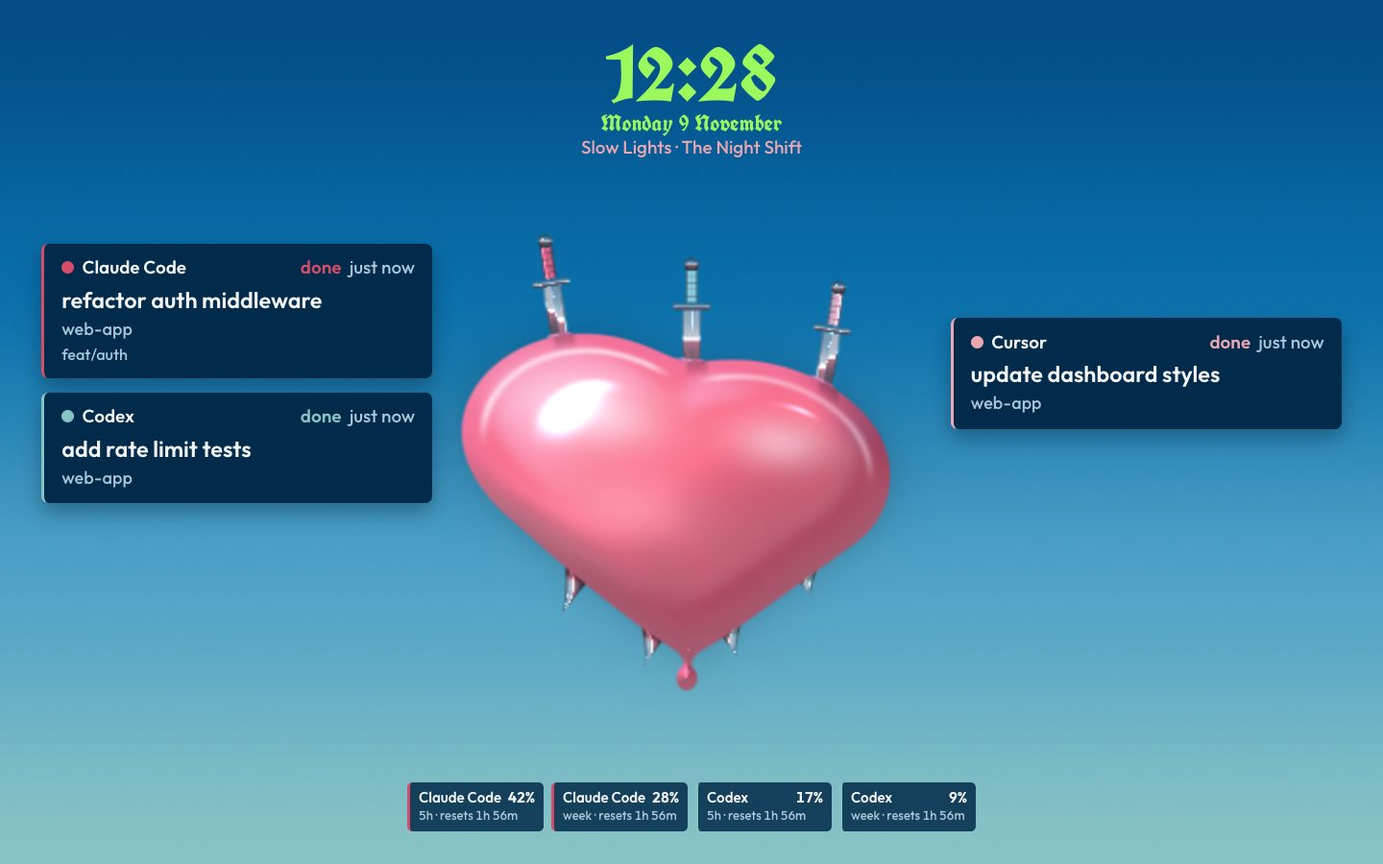
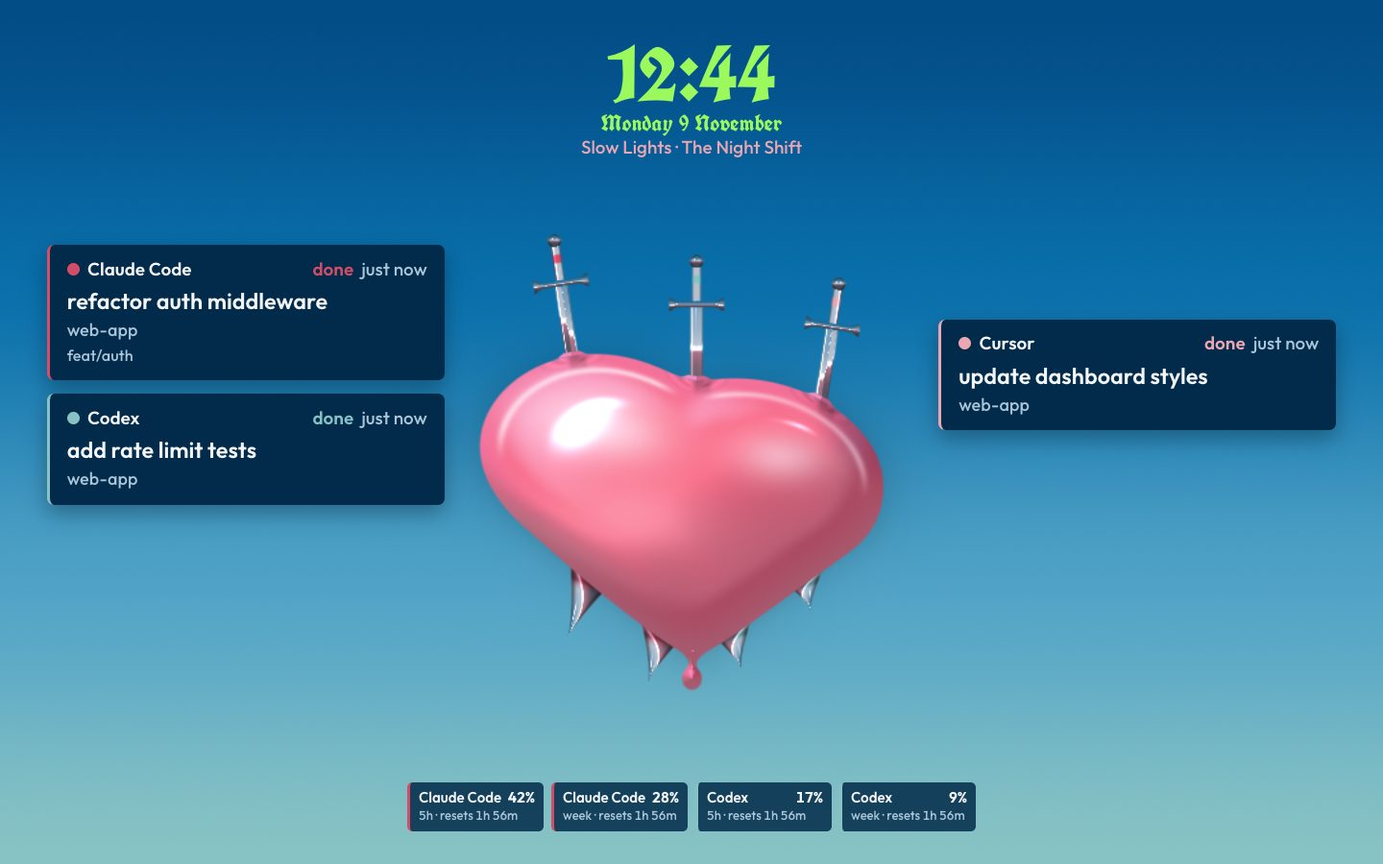
feat(favourite): bigger, crisp daggers and spikes like the cover

diff --git a/themes/favourite/stavgayer.favourite-ground/index.js b/themes/favourite/stavgayer.favourite-ground/index.js
@@ -1,12 +1,12 @@
 // The Favourite sky: a wide, hot pink heart, low and centred in a blue sky,
 // after the cover of the single. Everything is drawn in code by one WebGL 1
-// fragment shader on a canvas at half the screen's pixels.
+// fragment shader on a canvas at three quarters of the screen's size (option scale).
 //   rest, work, done: the resting sky and the heart, airbrushed with soft light;
 //   call: an agent waits: lime floods the heart's highlights and the sky goes
 //   to its deepest blue;
 //   second display: the sky and the heart.
-// Each task is a polished steel dagger stuck in the heart's top edge, its
-// wrapped grip in the agent's colour. It stabs in, sinks slowly over the first
+// Each task is a polished steel dagger stuck in the heart's top edge, shaped
+// like the cover's, with a thin band in the agent's colour on its grip. It stabs in, sinks slowly over the first
 // hour, glints once when the task is finished, turns lime while its agent waits
 // (the others dim), and slides out and falls when the task leaves. Where the
 // blade goes in, the liquid climbs it a little, ripples and takes its shadow.
@@ -41,7 +41,7 @@
     margin: 4, // above the clock
     clock: 14, // the time and the date
     gap: 2, // between blocks
-    rise: 0.24, // of the heart's size: the daggers stand above its top edge (always kept, so the heart never jumps)
+    rise: 0.32, // of the heart's size: the daggers stand above its top edge (always kept, so the heart never jumps)
     spikes: 0.12, // of the heart's size: the spikes hang under it (only with limits)
     labelRow: 6.5, // one row of limit labels
     labelWidth: 150, // CSS px per limit label
@@ -205,16 +205,18 @@
   var LOOK_MS = 250, SKY_MS = 1200, FADE_MS = 400;
 
   // The daggers: one per task, in card order, at most 7, stuck in the heart's top
-  // edge. Sizes in heart space (below). Three more slots let daggers fall out
-  // while new ones stab in.
+  // edge, shaped like the cover's. Sizes in heart space (below), for a dagger at
+  // full size; seven daggers are drawn a little smaller so their crossguards
+  // clear each other. Three more slots let daggers fall out while new ones stab in.
   var DAGGERS = 7, DAGGER_SLOTS = DAGGERS + 3;
   var DAGGER = {
     spread: 0.3, // the cover's left and right spots; the centre is 0
     lean: 0.5, // radians per unit from the centre: the outer daggers lean out a little
-    blade: 0.15, // the blade's length; over the first hour it sinks until a third of it is in
-    stuck: 0.03, // how deep a new dagger sits
-    lift: 0.06, // how high a new dagger stabs from
-    middle: 0.13, // from the tip to the balance point it tumbles around
+    blade: 0.22, // the blade's length; over the first hour it sinks until a third of it is in
+    guard: 0.066, // half the crossguard's length
+    stuck: 0.04, // how deep a new dagger sits
+    lift: 0.08, // how high a new dagger stabs from
+    middle: 0.19, // from the tip to the balance point it tumbles around
   };
   var LIME = "#9bf95e";
   var SINK_MS = 60 * 60000, STAB_MS = 400, GLINT_MS = 600, FALL_MS = 800;
@@ -227,11 +229,11 @@
   // full length, so their lengths compare, and an unused limit still shows 15% of it.
   var SPIKE_SLOTS = FRAME.maxSpikes;
   var SPIKE = {
-    full: 0.18, // the length out of the heart at 100% (the centre one reaches the label gap)
+    full: 0.27, // the length out of the heart at 100% (the centre one reaches the label gap)
     least: 0.15, // the share of it shown at 0%
-    width: 0.04, // half the width at the root, narrower when many spikes crowd
-    inset: 0.03, // how far the root reaches up into the heart, hidden behind it
-    tint: 0.02, // how far the agent's colour reaches down from where the thorn comes out
+    width: 0.06, // half the width at the root, narrower when many spikes crowd
+    inset: 0.035, // how far the root reaches up into the heart, hidden behind it
+    tint: 0.025, // how far the agent's colour reaches down from where the thorn comes out
     splay: 0.45, // the share of the surface's slope a thorn follows at rest
     sway: 1.8, // how much more it follows the slope's changes as the liquid moves
   };
@@ -377,9 +379,10 @@
     "uniform float uLime;    // 0 to 1: the lime light that floods the heart's reflections while an agent waits",
     "uniform float uWobble;  // the wobble's clock, seconds (stands still with Reduce motion)",
     "uniform float uWobbleAmount; // the share of the outline's wobble: 1, less while an agent waits",
-    "uniform vec4 uDagPose[" + DAGGER_SLOTS + "];   // the tip, and the way the blade points up",
+    "uniform vec4 uDagPose[" + DAGGER_SLOTS + "];   // the tip, and the way the blade points up, as long as the dagger's size",
     "uniform vec4 uDagLook[" + DAGGER_SLOTS + "];   // opacity (0: no dagger), glint (below 0: none), lime, dim",
     "uniform vec4 uDagHandle[" + DAGGER_SLOTS + "]; // the handle's agent colour, and 1 while it is stuck in the heart",
+    "uniform float uGuard;   // the share of the crossguards' length: 1, less while many daggers crowd",
     "uniform float uMotion;  // 1, or 0 with Reduce motion: no ripple",
     "uniform vec4 uSpike[" + SPIKE_SLOTS + "];     // the root's x and y, the length (0: no spike), half the width",
     "uniform vec2 uSpikeDir[" + SPIKE_SLOTS + "];  // the way the thorn points, from its root",
@@ -533,63 +536,65 @@
     "}",
     // A normal given across (x) and along (y) a part that points the way `up`, turned to the screen.
     "vec3 turned(vec2 n, float z, vec2 up) { return normalize(vec3(n.x * vec2(up.y, -up.x) + n.y * up, z)); }",
-    // A steel dagger standing on its tip, in its own space: x across, y up the
-    // blade from the tip. A bevelled blade (two faces that meet in a ridge, and a
-    // steeper edge bevel), a round-ended crossguard and a round pommel, all
-    // polished steel, and a grip of wrapped wire in the agent's colour. The lower
-    // blade, near the heart, mirrors its pink; the upper blade and the hilt the sky.
-    "const float BLADE = " + DAGGER.blade.toFixed(4) + ";",
-    "const float BLADE_W = 0.02;               // half the blade's width at the guard",
-    "const vec2 GUARD = vec2(0.042, 0.008);    // half the crossguard: 7 daggers just clear each other",
-    "const float GRIP = 0.075, GRIP_W = 0.013, POMMEL = 0.016;",
-    "const float GRIP_Y = BLADE + 2.0 * GUARD.y; // where the grip starts",
-    "const float REACH = GRIP_Y + GRIP + 2.0 * POMMEL; // tip to the top of the pommel",
-    "float box(vec2 p, vec2 c, vec2 h, float r) { vec2 q = abs(p - c) - h + r; return length(max(q, 0.0)) + min(max(q.x, q.y), 0.0) - r; }",
+    // A steel dagger standing on its tip, in its own space at full size: x
+    // across, y up the blade from the tip. After the cover: a slim bevelled blade
+    // (two faces that meet in a ridge, a steeper bevel at each edge and a sharp
+    // bright line along the lit edge), a long, thin crossguard whose ends flare,
+    // a plain round grip with one thin band in the agent's colour, and a round
+    // pommel, all polished steel. The lower blade, near the heart, mirrors its
+    // pink; the upper blade and the hilt the sky.
+    "const float BLADE = " + DAGGER.blade.toFixed(4) + ", BLADE_W = 0.015; // half the blade's width",
+    "const float GUARD_L = " + DAGGER.guard.toFixed(4) + ", GUARD_H = 0.007; // half the crossguard's length and thickness at its middle",
+    "const float GRIP_Y = BLADE + 2.0 * GUARD_H, GRIP = 0.085, GRIP_W = 0.0105, POMMEL = 0.016;",
+    "const float REACH = GRIP_Y + GRIP + 1.7 * POMMEL; // tip to the top of the pommel",
     "vec3 dagger(vec2 u, vec2 up, vec3 c, vec4 look, vec4 handle, float d, float px) {",
-    "  float t = clamp(u.y / (BLADE * 0.45), 0.0, 1.0);",
+    "  float t = clamp(u.y / (BLADE * 0.3), 0.0, 1.0);",
     "  float w = BLADE_W * t * (2.0 - t); // a sharp point that swells into a straight blade",
     "  float blade = max(abs(u.x) - w, max(-u.y, u.y - BLADE));",
-    "  float guard = box(u, vec2(0.0, BLADE + GUARD.y), GUARD, GUARD.y);",
-    "  float grip = box(u, vec2(0.0, GRIP_Y + 0.5 * GRIP), vec2(GRIP_W, 0.5 * GRIP), 0.004);",
+    "  vec2 gq = u - vec2(0.0, BLADE + GUARD_H);",
+    "  float gl = GUARD_L * uGuard;",
+    "  float flare = smoothstep(0.55, 1.0, abs(gq.x) / gl);",
+    "  float gh = GUARD_H * (1.0 + 1.2 * flare * flare);",
+    "  float guard = max(abs(gq.x) - gl, abs(gq.y) - gh);",
+    "  float grip = max(abs(u.x) - GRIP_W, abs(u.y - GRIP_Y - 0.5 * GRIP) - 0.5 * GRIP);",
     "  vec2 knob = (u - vec2(0.0, GRIP_Y + GRIP + 0.7 * POMMEL)) / POMMEL;",
     "  float pommel = (length(knob) - 1.0) * POMMEL;",
-    "  float metal = min(blade, min(guard, pommel));",
-    "  float whole = min(metal, grip);",
+    "  float whole = min(min(blade, guard), min(grip, pommel));",
     // Each part's normal, then one mirror for all of them.
     "  float a = u.x / max(w, 1e-4);",
     "  float face = sign(a) * mix(0.45 * smoothstep(0.0, 0.14, abs(a)), 0.9, smoothstep(0.74, 0.9, abs(a)));",
-    "  vec3 n = turned(vec2(face, mix(-0.28, 0.28, u.y / BLADE) + 0.04 * sin(u.y * 70.0)), 0.8, up);",
-    "  vec2 g = (u - vec2(0.0, BLADE + GUARD.y)) / GUARD;",
+    "  vec3 n = turned(vec2(face, mix(-0.28, 0.28, u.y / BLADE) + 0.04 * sin(u.y * 50.0)), 0.8, up);",
     "  float onGuard = smoothstep(-px, px, blade - guard);",
-    "  n = mix(n, turned(vec2(sign(g.x) * 0.8 * smoothstep(0.7, 1.0, abs(g.x)), 0.6 * g.y + 0.15), 0.8, up), onGuard);",
+    "  n = mix(n, turned(vec2(sign(gq.x) * 0.75 * flare, 0.7 * gq.y / gh + 0.15), 0.8, up), onGuard);",
+    "  float onGrip = smoothstep(-px, px, min(blade, guard) - grip);",
+    "  vec2 rod = vec2(0.92 * clamp(u.x / GRIP_W, -1.0, 1.0), 0.1);",
+    "  n = mix(n, turned(rod, sqrt(max(0.05, 1.0 - dot(rod, rod))), up), onGrip);",
     "  vec2 k = knob * 0.95;",
-    "  float onPommel = smoothstep(-px, px, min(blade, guard) - pommel);",
-    "  n = mix(n, turned(k, sqrt(max(0.05, 1.0 - dot(k, k))), up), onPommel);",
-    "  float turn = fract((u.y - GRIP_Y) / 0.015); // the grip's rings",
-    "  vec2 wire = vec2(0.92 * clamp(u.x / GRIP_W, -1.0, 1.0), 0.12);",
-    "  float onGrip = 1.0 - smoothstep(-px, px, grip - metal);",
-    "  n = normalize(mix(n, turned(wire, sqrt(max(0.05, 1.0 - dot(wire, wire))), up), onGrip));",
+    "  float onPommel = smoothstep(-px, px, min(min(blade, guard), grip) - pommel);",
+    "  n = normalize(mix(n, turned(k, sqrt(max(0.05, 1.0 - dot(k, k))), up), onPommel));",
     "  vec3 part = chrome(n);",
+    "  float onBlade = 1.0 - max(max(onGuard, onGrip), onPommel);",
+    "  part += onBlade * 0.75 * exp(-pow((a + 0.8) / 0.09, 2.0)) * smoothstep(0.0, 0.3, t); // the bright edge",
     "  if (look.y >= 0.0) { // the glint runs down the blade once",
-    "    part += (1.0 - max(onGuard, max(onPommel, onGrip))) * exp(-pow((u.y - mix(BLADE, 0.0, look.y)) / 0.018, 2.0)) * sin(3.14159265 * look.y);",
+    "    part += onBlade * exp(-pow((u.y - mix(BLADE, 0.0, look.y)) / 0.025, 2.0)) * sin(3.14159265 * look.y);",
     "  }",
-    "  vec3 tint = mix(handle.rgb, LIME, look.z);",
-    "  vec3 wrapped = part * (1.2 * tint + 0.15) * (0.72 + 0.28 * smoothstep(0.0, 0.2, min(turn, 1.0 - turn))) + 0.2 * LIME * look.z;",
-    "  part = mix(part, wrapped, onGrip);",
+    "  float band = onGrip * (1.0 - smoothstep(0.01 - px, 0.01 + px, abs(u.y - GRIP_Y - 0.62 * GRIP)));",
+    "  vec3 tint = mix(handle.rgb, LIME, look.z); // coloured metal: the agent's colour, lit like the steel around it",
+    "  part = mix(part, tint * (0.4 + 0.8 * dot(part, vec3(0.3333))) + 0.15 * LIME * look.z, band);",
     "  float shown = (1.0 - smoothstep(-px, px, whole)) * look.x * mix(1.0, 0.4, look.w);",
     "  if (handle.w > 0.5) {",
     // Stuck in the heart: hidden inside it. The liquid climbs the blade a little
     // and ripples out from it, and the blade's soft shadow falls on the skin below
     // and to the right of it, away from the light.
     "    float side = max(abs(u.x) - w, 0.0);",
-    "    float ring = length(vec2(u.x, 2.6 * d));",
-    "    float wave = uMotion * sin(ring * 260.0 - uWobble * 6.0) * exp(-ring / 0.028) * smoothstep(0.0, 0.008, side);",
-    "    float lip = 0.008 * exp(-pow(side / 0.012, 2.0)) * (1.0 + 0.3 * wave);",
+    "    float ring = length(vec2(u.x, 2.4 * d));",
+    "    float wave = uMotion * sin(ring * 170.0 - uWobble * 5.0) * exp(-ring / 0.04) * smoothstep(0.0, 0.01, side);",
+    "    float lip = 0.012 * exp(-pow(side / 0.016, 2.0)) * (1.0 + 0.35 * wave);",
     "    float wet = 1.0 - smoothstep(-px, px, d - lip);",
     "    float onSkin = 1.0 - smoothstep(-px, px, d);",
-    "    vec2 caster = u - vec2(dot(vec2(0.012, -0.01), vec2(up.y, -up.x)), dot(vec2(0.012, -0.01), up));",
-    "    float shade = (1.0 - smoothstep(-0.004, 0.012, max(abs(caster.x) - BLADE_W, -caster.y))) * smoothstep(-0.045, -0.004, d);",
-    "    c *= 1.0 - look.x * onSkin * (0.2 * shade - 0.12 * wave * smoothstep(-0.04, 0.0, d));",
+    "    vec2 caster = u - vec2(dot(vec2(0.014, -0.012), vec2(up.y, -up.x)), dot(vec2(0.014, -0.012), up));",
+    "    float shade = (1.0 - smoothstep(-0.004, 0.014, max(abs(caster.x) - BLADE_W, -caster.y))) * smoothstep(-0.05, -0.004, d);",
+    "    c *= 1.0 - look.x * onSkin * (0.25 * shade - 0.24 * wave * smoothstep(-0.05, 0.0, d));",
     "    vec3 rise = turned(vec2(sign(u.x) * 0.55, 0.5), 0.65, up);",
     "    c = mix(c, surface(rise, 1.0) + gloss(rise), look.x * max(wet - onSkin, 0.0));",
     "    shown *= 1.0 - wet;",
@@ -632,17 +637,18 @@
     "    vec4 look = uDagLook[i];",
     "    if (look.x <= 0.0) continue;",
     "    vec4 pose = uDagPose[i];",
-    "    vec2 v = p - pose.xy;",
-    "    vec2 u = vec2(dot(v, vec2(pose.w, -pose.z)), dot(v, pose.zw));",
-    "    if (abs(u.x) > GUARD.x + 0.01 || u.y < -0.03 || u.y > REACH + 0.01) continue;",
-    "    col = dagger(u, pose.zw, col, look, uDagHandle[i], d, px);",
+    "    float k = length(pose.zw); // the dagger's size",
+    "    vec2 up = pose.zw / k, v = p - pose.xy;",
+    "    vec2 u = vec2(dot(v, vec2(up.y, -up.x)), dot(v, up)) / k;",
+    "    if (abs(u.x) > GUARD_L + 0.012 || u.y < -0.04 || u.y > REACH + 0.01) continue;",
+    "    col = dagger(u, up, col, look, uDagHandle[i], d / k, px / k);",
     "  }",
     "  col += (hash(frag) - 0.5) / 255.0; // no banding in the long gradients",
     "  gl_FragColor = vec4(col, 1.0);",
     "}",
   ]).join("\n");
 
-  var UNIFORMS = ["uRes", "uHeart", "uSkyTop", "uLime", "uWobble", "uWobbleAmount", "uDagPose", "uDagLook", "uDagHandle", "uMotion", "uSpike", "uSpikeDir", "uSpikeTint", "uDrip", "uDripAt"];
+  var UNIFORMS = ["uRes", "uHeart", "uSkyTop", "uLime", "uWobble", "uWobbleAmount", "uDagPose", "uDagLook", "uDagHandle", "uGuard", "uMotion", "uSpike", "uSpikeDir", "uSpikeTint", "uDrip", "uDripAt"];
 
   function compile(gl, type, source) {
     var shader = gl.createShader(type);
@@ -660,12 +666,13 @@
 
   window.agentScreensaver.register(function () {
     var box, style, canvas, gl, uniforms = {}, cancelFrame, ctx, lastState;
-    var fps = 12, scale = 0.5, driftMs = 4 * 60000, dirty = true, startMs = 0;
+    var fps = 12, scale = 0.75, driftMs = 4 * 60000, dirty = true, startMs = 0;
     var frame, display = "main";
     var skyTop = tween(0); // 0 resting, 1 while an agent waits: the deep sky and the lime light
     var REST_TOP = rgbOf(SKY[0]), CALL_TOP = rgbOf(DEEP_SKY);
     // The daggers in drawing order: the tasks' daggers in card order, then the ones falling out.
     var daggers = [], firstState = true;
+    var dagSize = tween(1), dagGuard = tween(1); // the daggers' size and their crossguards' length: 1, less while many crowd the edge
     var dagPose = new Float32Array(DAGGER_SLOTS * 4);
     var dagLook = new Float32Array(DAGGER_SLOTS * 4);
     var dagHandle = new Float32Array(DAGGER_SLOTS * 4);
@@ -701,6 +708,12 @@
       var leaving = Object.keys(byKey).some(function (key) { return stay.indexOf(key) < 0; });
       // The rest move up only once a leaving dagger is out of the heart, so they never cross it.
       var moveAt = leaving && !still ? nowMs + PULL * FALL_MS : nowMs;
+      // Six or seven daggers are drawn a little smaller, with shorter crossguards
+      // that keep a gap between neighbours.
+      var gap = cards.length < 2 ? Infinity : (2 * DAGGER.spread) / (cards.length - 1);
+      var size = Math.min(1, 0.55 + 3 * gap);
+      dagSize.set(size, moveAt, slideMs);
+      dagGuard.set(Math.min(1, (gap - 0.02) / (2 * DAGGER.guard * size)), moveAt, slideMs);
       var kept = cards.map(function (card, index) {
         var key = stay[index], x = slotX(index, cards.length);
         var dagger = byKey[key] || newDagger(card, key, x, moveAt);
@@ -723,11 +736,11 @@
 
     // One dagger this moment: its tip and direction, how it looks, and whether it is stuck.
     function placeDagger(dagger, nowMs, slot, t, amount) {
-      var still = reduce.matches, x = dagger.x.at(nowMs), lean = x * DAGGER.lean;
+      var still = reduce.matches, x = dagger.x.at(nowMs), lean = x * DAGGER.lean, k = dagSize.at(nowMs);
       var depth = depthOf((dagger.endMs === null ? nowMs : dagger.endMs) - dagger.startedMs);
-      var under = DAGGER.stuck + depth * (DAGGER.blade / 3 - DAGGER.stuck); // the blade inside the heart: a third at full depth
+      var under = k * (DAGGER.stuck + depth * (DAGGER.blade / 3 - DAGGER.stuck)); // the blade inside the heart: a third at full depth
       var stab = Math.min(1, Math.max(0, nowMs - dagger.bornMs) / (still ? FADE_MS : STAB_MS));
-      var alpha = still ? stab : Math.min(1, stab / 0.4), rise = still ? 0 : DAGGER.lift * (1 - easeOut(stab));
+      var alpha = still ? stab : Math.min(1, stab / 0.4), rise = still ? 0 : k * DAGGER.lift * (1 - easeOut(stab));
       var drift = 0, drop = 0, tumble = 0, stuck = 1;
       if (dagger.leftMs !== null) {
         var leave = Math.min(1, (nowMs - dagger.leftMs) / leaveMs());
@@ -745,11 +758,11 @@
         }
       }
       // The blade goes in at the edge above its slot; it tumbles around its balance point.
-      var reach = rise - under + DAGGER.middle;
+      var middle = k * DAGGER.middle, reach = rise - under + middle;
       var mx = x + Math.sin(lean) * reach + drift, my = edgeAt(x, t, amount) + Math.cos(lean) * reach - drop;
       var o = slot * 4, upX = Math.sin(lean + tumble), upY = Math.cos(lean + tumble);
       var glint = (nowMs - dagger.glintMs) / GLINT_MS;
-      dagPose.set([mx - upX * DAGGER.middle, my - upY * DAGGER.middle, upX, upY], o);
+      dagPose.set([mx - upX * middle, my - upY * middle, upX * k, upY * k], o);
       dagLook.set([alpha, still || glint < 0 || glint >= 1 ? -1 : glint, dagger.lime.at(nowMs), dagger.dim.at(nowMs)], o);
       dagHandle.set([dagger.colour[0], dagger.colour[1], dagger.colour[2], stuck], o);
     }
@@ -765,7 +778,7 @@
       return daggers.some(function (dagger) {
         return nowMs - dagger.bornMs < FADE_MS || dagger.leftMs !== null ||
           dagger.x.moving(nowMs) || dagger.lime.moving(nowMs) || dagger.dim.moving(nowMs);
-      });
+      }) || dagSize.moving(nowMs) || dagGuard.moving(nowMs);
     }
 
     // One spike per limit, in label order, longer the more of the limit is used.
@@ -910,6 +923,7 @@
       gl.uniform4fv(uniforms.uDagLook, dagLook);
       gl.uniform4fv(uniforms.uDagHandle, dagHandle);
       gl.uniform1f(uniforms.uMotion, reduce.matches ? 0 : 1);
+      gl.uniform1f(uniforms.uGuard, dagGuard.at(nowMs));
       gl.uniform4fv(uniforms.uSpike, spikeShape);
       gl.uniform2fv(uniforms.uSpikeDir, spikeDir);
       gl.uniform3fv(uniforms.uSpikeTint, spikeTint);
@@ -1014,6 +1028,8 @@
         uniforms = {};
         skyTop = tween(0);
         daggers = [];
+        dagSize = tween(1);
+        dagGuard = tween(1);
         firstState = true;
         spikeShape.fill(0);
         song = fellMs = null;

diff --git a/themes/favourite/stavgayer.favourite-board/index.js b/themes/favourite/stavgayer.favourite-board/index.js
@@ -29,7 +29,7 @@
     margin: 4, // above the clock
     clock: 14, // the time and the date
     gap: 2, // between blocks
-    rise: 0.24, // of the heart's size: the daggers stand above its top edge (always kept, so the heart never jumps)
+    rise: 0.32, // of the heart's size: the daggers stand above its top edge (always kept, so the heart never jumps)
     spikes: 0.12, // of the heart's size: the spikes hang under it (only with limits)
     labelRow: 6.5, // one row of limit labels
     labelWidth: 150, // CSS px per limit label

diff --git a/themes/favourite/README.md b/themes/favourite/README.md
@@ -10,7 +10,7 @@ Needs [agent-screensaver 0.5.0](https://github.com/stavgayer/agent-screensaver/r
 
 | State | Still |
 |---|---|
-| Agents working: one polished steel dagger stands in the top edge of the heart for each task, up to seven, with its grip in the agent's colour. Each task also gets a dark blue card in the sky beside the heart, with the agent, how long it has run, the task, the project and the branch. A dagger sinks very slowly into the heart over the first hour. When more tasks run than the columns can hold, the last card says `+N more`. On narrow screens (4:3 and 5:4) the cards go in one row under the limits. | ![Working](media/working.jpg) |
+| Agents working: one polished steel dagger stands in the top edge of the heart for each task, up to seven, with a thin band in the agent's colour on its grip. Each task also gets a dark blue card in the sky beside the heart, with the agent, how long it has run, the task, the project and the branch. A dagger sinks very slowly into the heart over the first hour. When more tasks run than the columns can hold, the last card says `+N more`. On narrow screens (4:3 and 5:4) the cards go in one row under the limits. | ![Working](media/working.jpg) |
 | All done: every dagger stays where it is and glints one time. The cards say `done`. The daggers stand still. When the app clears the finished tasks, each dagger slides out and falls away. | ![Done](media/done.jpg) |
 | An agent waits for you: the heart's highlights turn lime, as if a lime light came on, the sky goes to its deepest blue, the waiting agent's dagger turns lime and the other daggers dim. The cards and the limits fade back, and one large card sits over the heart's point: `needs you` in lime blackletter, the agent, how long it has waited, the project and the exact command. If more than one agent waits, the one that has waited longest shows, with a line `+N more waiting`. The song hides. | ![Needs you](media/approval.jpg) |
 | Nothing running: the heart alone, low in the sky, no daggers. The time in lime blackletter at the top centre, the date under it, and the usage limits under the heart. With "Show what's playing" on, the song line shows under the date and the drip hangs from the heart's bottom point. | ![Idle](media/idle.jpg) |
@@ -20,16 +20,16 @@ Each usage limit is one polished steel spike that comes out of the heart's botto
 
 With "Show what's playing" on, the title and the artist show in one small pink line under the date, and the heart's own pink liquid runs from its bottom point: the drip and the heart are one smooth surface, with no seam. The drip grows longer and a drop swells at its end as the song plays. When the song ends, the drop breaks off and falls. A song that Music streams has no length, so its drip hangs at half length and stays. With no song there is no drip. The song hides while an agent waits for you, and it never shows on the second display.
 
-Each agent owns one colour from the cover: Claude red `#d34d68`, Codex sea green `#87c2c4`, Cursor pink `#eba6b3`. Other agents get one of those or a light silver by their name. The steel has no outline: it turns darker at its edges, so it reads on the sky. Lime is kept for the time, the date, `needs you` and the dagger of a waiting agent. All small text sits on dark blue plates, so it reads over the sky. Privacy mode keeps working: titles, commands and branches show only when the service sends them. Without a command the approval says "Look at the terminal".
+Each agent owns one colour from the cover: Claude red `#d34d68`, Codex sea green `#87c2c4`, Cursor pink `#eba6b3`. Other agents get one of those or a light silver by their name. The steel has no outline: it turns darker at its edges, so it reads on the sky. Lime is kept for the time, the date, `needs you` and the grip band of a waiting agent's dagger. All small text sits on dark blue plates, so it reads over the sky. Privacy mode keeps working: titles, commands and branches show only when the service sends them. Without a command the approval says "Look at the terminal".
 
 ## Motion
 
 - The heart has the shape of the Favourite cover's heart: wide round lobes, a shallow dip between them, and sides that taper to a soft point. It is wider than it is tall. It looks like thick, glossy pink liquid. Its pinks were measured on the Favourite cover and the Romance album heart: hot pink `#f96c87`, deep pink `#d34663` and dark red `#b72342` away from the light, light pink `#feb2d7` where the light falls, and a touch of magenta `#e878bc` at the edge. The darker parts softly mirror the blue sky, like liquid chrome. Soft, broad highlights sit on the lobes, small sharp white glints catch the light, and one thin, soft line of light follows the top edge.
 - The heart is liquid. Its outline flows and bulges like a blob of liquid: slow waves that feed into other waves, taking 6 to 14 seconds each and moving the edge by about 5 to 8% of the heart's size, less near the point so the point stays a point. Over a few seconds you see bulges travel across it. The highlights and the glints flow with the surface, and a slow swirl of noise moves the light over it. While an agent needs you, the outline moves half as much, easing in and out with the lime, so the heart keeps its lobes and dip; the light keeps flowing. The daggers, the spikes and the drip stay on the moving edge. The spikes stand out from the surface and sway as it turns. The drip swings and stretches a moment after the point moves. The heart also breathes: a very slow swell of about 1.5% every 8 seconds.
-- The daggers and the spikes are polished steel. Like a mirror, they show the sky above and the heart's pink below, with a bright line where the two meet, sharp white highlights, and darker steel at their edges. A blade has two faces that meet in a ridge and a steeper bevel at each edge. The crossguard and the pommel are steel too, and the grip is steel tinted with the agent's colour (lime while that agent waits for you). Where a blade goes into the heart, the liquid climbs it a little, small ripples run out from it, and the blade casts a soft shadow on the skin.
+- The daggers and the spikes are polished steel. Like a mirror, they show the sky above and the heart's pink below, with a bright line where the two meet, sharp white highlights, and darker steel at their edges. The daggers follow the cover's shape: a slim blade with two faces that meet in a ridge, a steeper bevel at each edge and a sharp bright line along its lit edge, a long, thin crossguard whose ends flare, a plain steel grip and a round pommel. A thin band on the grip is in the agent's colour (lime while that agent waits for you). With six or seven tasks the daggers are drawn a little smaller, with shorter crossguards, so they do not overlap. Where a blade goes into the heart, the liquid climbs it a little, small ripples run out from it, and the blade casts a soft shadow on the skin.
 - The whole picture drifts a few pixels over minutes, so no pixel stays lit in one place. Option `drift` sets the minutes for one drift (4 by default).
 - One move for each event. A new task stabs a dagger in with one short move. A finished task glints once. When an agent needs you, lime floods the heart's highlights and the sky goes deep blue, both over about a second. Nothing pulses.
-- The background is one WebGL shader. It draws at half size (option `scale`) and 12 frames a second (option `fps`, at most 30), and it starts again on its own if the graphics card resets.
+- The background is one WebGL shader. It draws at three quarters of the screen's size (option `scale`, 0.75 by default), so the steel edges stay crisp. It draws 12 frames a second (option `fps`, at most 30), and it starts again on its own if the graphics card resets.
 - With "Reduce motion" on in macOS, the picture stands still: the heart does not flow, breathe or drift, the spikes do not sway, the liquid around the blades does not ripple, and the picture is drawn again only when something changes. The drip still gets longer as the song plays, without swinging, and it fades out when the song ends. The lime cross-fades in and out, and daggers fade in and out instead of moving.
 
 ## What is in this folder
